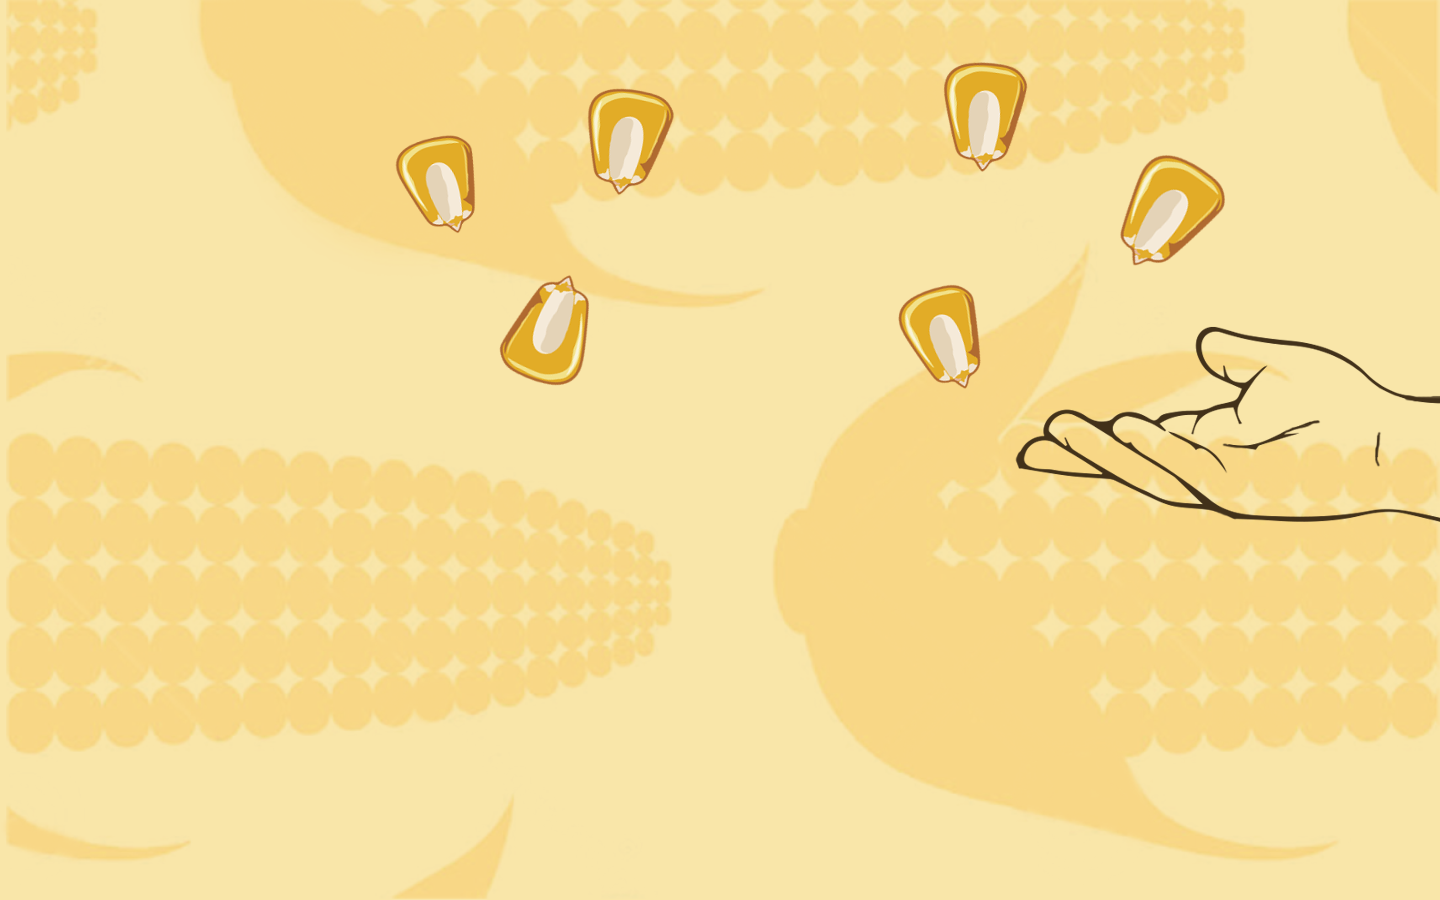
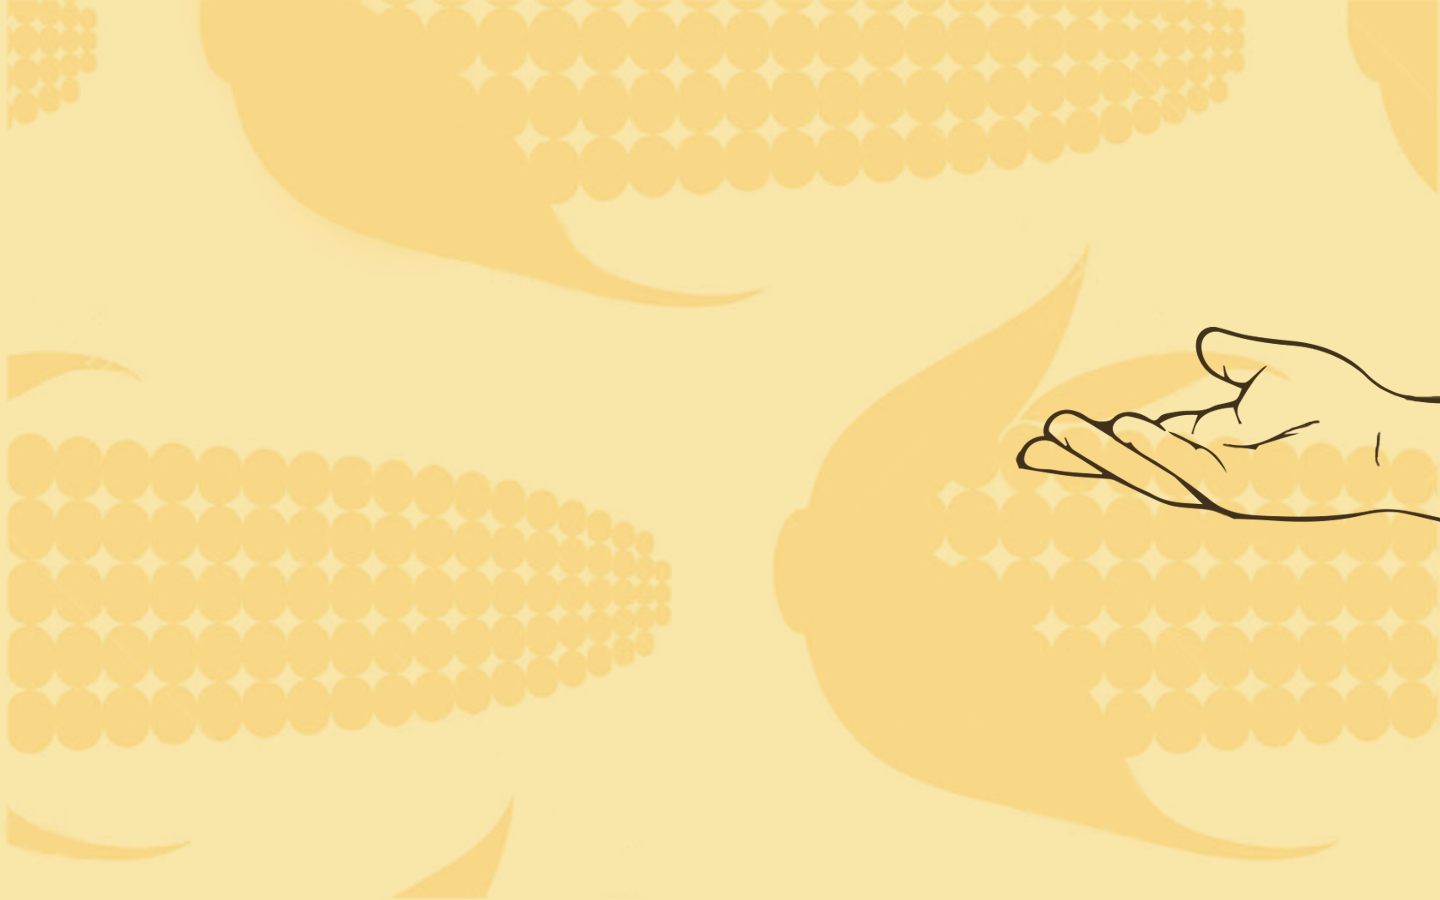
Ilustracion

diff --git a/css/proceso.css b/css/proceso.css
@@ -22,6 +22,7 @@ html,body{
 .step-one{
 	position: relative;
 	background-image:url('../images/proceso/FondoAmarillo1.png');
+
 }
 
 .step-two{
@@ -59,6 +60,11 @@ html,body{
 	padding: 20px;
 	text-align: center;
 	margin-bottom: 50px;
+	background-image: url("../images/proceso/Texto1.png");
+	background-size: contain;
+	background-repeat: no-repeat;
+    height: 25%;
+    background-position: center;
 }
 
 .step-one-productos{
@@ -83,7 +89,12 @@ html,body{
 	font-weight: 600;
 	padding: 20px;
 	text-align: center;
-	margin-left: 20px;
+	background-image: url('../images/proceso/Texto2.png');
+	background-size: contain;
+	background-repeat: no-repeat;
+    height: 25%;
+    background-position: center;
+
 }
 
 .step-one-campesino{
@@ -121,9 +132,14 @@ html,body{
 	font-weight: 600;
 	padding: 20px;
 	text-align: center;
-	margin-bottom: 20px;
+	margin-bottom: 200px;
 	margin-right: 0px;
 	margin-left: 0px;
+	background-image: url("../images/proceso/texto3.png");
+	background-size: contain;
+	background-repeat: no-repeat;
+    height: 25%;
+    background-position: center;
 }
 
 .step-three-machine{
@@ -148,6 +164,11 @@ html,body{
 	text-align: center;
 	margin-top: 60px;
 	margin-left: 40px;
+	background-image: url("../images/proceso/texto4.png");
+	background-size: contain;
+	background-repeat: no-repeat;
+    height: 25%;
+    background-position: center;
 }
 
 .step-four-machine{
@@ -170,11 +191,111 @@ html,body{
 	height: 10%;
 	padding-top: 10px;
 	background-color: #e31e2f;
+	
+	
+	text-align: center;
+	vertical-align: center;
+}
+
+.step-four-footer>a{
+	text-decoration: none;
+	color: white;
 	font-family: 'cabana';
 	font-size: 36px;
 	font-weight: 600;
-	color: white;
-	text-align: center;
-	vertical-align: center;
-
 }
+
+.step-four-footer>a:hover{
+	text-decoration: none;
+	color: white;
+}
+
+.grano_one,.grano_two,.grano_three,.grano_five{
+	position: absolute;
+	z-index: 10;
+	transition-property: transform;
+    animation-direction: alternate;   
+    animation-name: rotate; 
+    animation-duration: 2s; 
+    animation-iteration-count: infinite;
+    animation-timing-function: ease-in;
+    transform: rotate(-40deg);
+}
+
+.grano_four,.grano_six{
+	position: absolute;
+	z-index: 10;
+	transition-property: transform;
+    animation-direction: alternate;   
+    animation-name: rotate_inverse; 
+    animation-duration: 2s; 
+    animation-iteration-count: infinite;
+    animation-timing-function: ease-in;
+    transform: rotate(-40deg);
+}
+
+.grano_one{
+	top: 25%;  /* position the top  edge of the element at the middle of the parent */
+    left: 75%; /* position the left edge of the element at the middle of the parent */
+}
+
+.grano_two{
+	top: 5%;
+    left: 60%;
+}
+
+.grano_three{
+	top: 10%;
+    left: 25%;
+}
+
+.grano_four{
+	top: 15%;
+    left: 40%;
+}
+
+.grano_five{
+	top: 45%;
+	left: 30%;
+}
+
+.grano_six{
+	top: 35%;
+	left: 60%;
+}
+
+@keyframes rotate {
+    0%   {transform: rotate(0deg);}
+    10%  {transform: rotate(10deg);}
+    20%  {transform: rotate(20deg);}
+    30%  {transform: rotate(30deg);}
+    35%  {transform: rotate(40deg);}
+    40%  {transform: rotate(45deg);}
+    50% {transform: rotate(50deg);}
+    60%  {transform: rotate(60deg);}
+    70%  {transform: rotate(65deg);}
+    80%  {transform: rotate(70deg);}
+    90%  {transform: rotate(80deg);}
+    100% {transform: rotate(90deg);}
+}
+
+@keyframes rotate_inverse {
+    0%   {transform: rotate(90deg);}
+    10%  {transform: rotate(80deg);}
+    20%  {transform: rotate(70deg);}
+    30%  {transform: rotate(65deg);}
+    35%  {transform: rotate(60deg);}
+    40%  {transform: rotate(50deg);}
+    50% {transform: rotate(45deg);}
+    60%  {transform: rotate(40deg);}
+    70%  {transform: rotate(30deg);}
+    80%  {transform: rotate(20deg);}
+    90%  {transform: rotate(10deg);}
+    100% {transform: rotate(0deg);}
+}
+
+/*
+@-webkit-keyframes rotation {
+    from {-webkit-transform: rotate(0deg);}
+    to   {-webkit-transform: rotate(359deg);}
+}*/

diff --git a/proceso.html b/proceso.html
@@ -52,24 +52,38 @@
 		<div class="grano">
 			<img src="images/proceso/GranoSolo.png" width="100px" height="100px">
 		</div>
+		<div class="grano_one">
+			<img src="images/proceso/GranoSolo_one.png" width="100px" height="100px">
+		</div>
+		<div class="grano_two">
+			<img src="images/proceso/GranoSolo_two.png" width="100px" height="100px">
+		</div>
+		<div class="grano_three">
+			<img src="images/proceso/GranoSolo_three.png" width="100px" height="100px">
+		</div>
+		<div class="grano_four">
+			<img src="images/proceso/GranoSolo_four.png" width="100px" height="100px">
+		</div>
+		<div class="grano_five">
+			<img src="images/proceso/GranoSolo_five.png" width="100px" height="100px">
+		</div>
+		<div class="grano_six">
+			<img src="images/proceso/GranoSolo_six.png" width="100px" height="100px">
+		</div>
 		<div class="step-one row-flex justify-content-center align-items-end">
 			<div class="step-one-legend col-md-3">
-				<span>RECEPCIÓN DE LA MATERIA PRIMA</span><br/>
-				<span>MAÍZ BLANCO DURO PROVENIENTE</span><br/>
-				<span>DE LOS CAMPOS Y VALLES</span>
+				
 			</div>
 			<div class="step-one-campesino">
 				
 			</div>
-			<div class="step-one-productos">
-
+			<a class="step-one-productos" href="granos.html">
 				
-			</div>
+			</a>
 		</div>
 		<div class="step-two row-flex justify-content-start align-items-center">
-			<div class="step-two-legend col-md-3">
-				<span>LIMPIEZA Y SECADO</span><br/>
-				<span>DE LA MATERIA PRIMA</span>
+			<div class="step-two-legend col-md-3 offset-md-1">
+				
 			</div>
 			<div class="step-two-machine">
 				
@@ -77,8 +91,7 @@
 		</div>
 		<div class="step-three row-flex row-flex justify-content-end align-items-center">
 			<div class="step-three-legend col-md-3">
-				<span>DESGERMINADO</span><br/>
-				<span>Y DESCARADO DEL MAÍZ</span>
+				
 			</div>
 			<div class="step-three-machine">
 				
@@ -86,14 +99,13 @@
 		</div>
 		<div class="step-four column-flex row-flex justify-content-start align-items-start">
 			<div class="step-four-legend col-md-3">
-				<span>TRITURADO DE LOS GRANOS</span><br/>
-				<span>EN MOLINO DE CILINDROS</span>
+				
 			</div>
 			<div class="step-four-machine">
 				
 			</div>
 			<div class="step-four-footer">
-				<span>VER LISTA DE PRODUCTOS</span>
+				<a href="granos.html"> VER LISTA DE PRODUCTOS </a>
 			</div>
 		</div>
 	</div>
